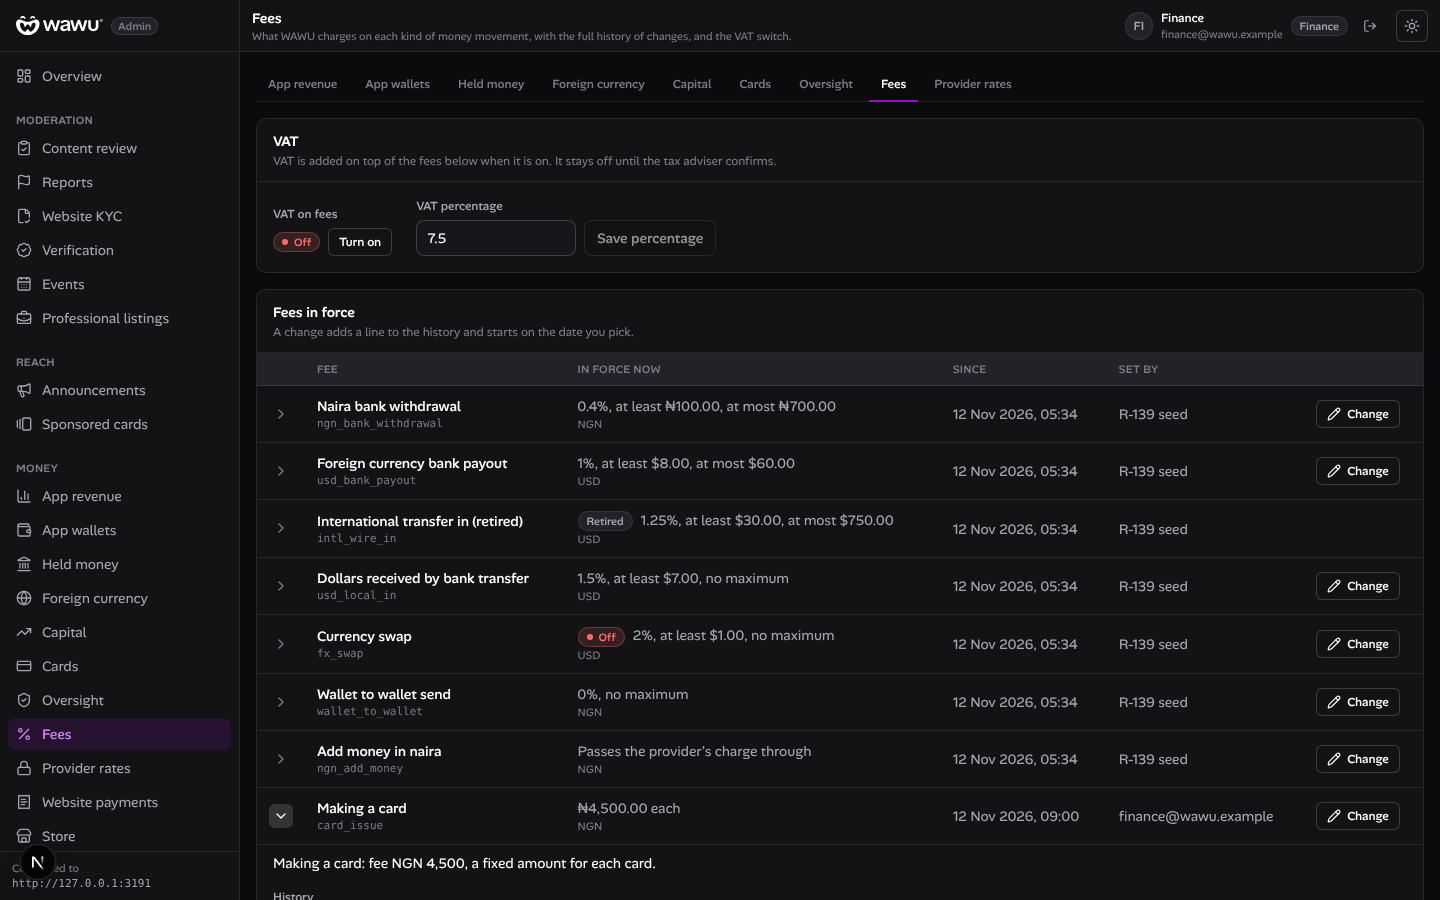
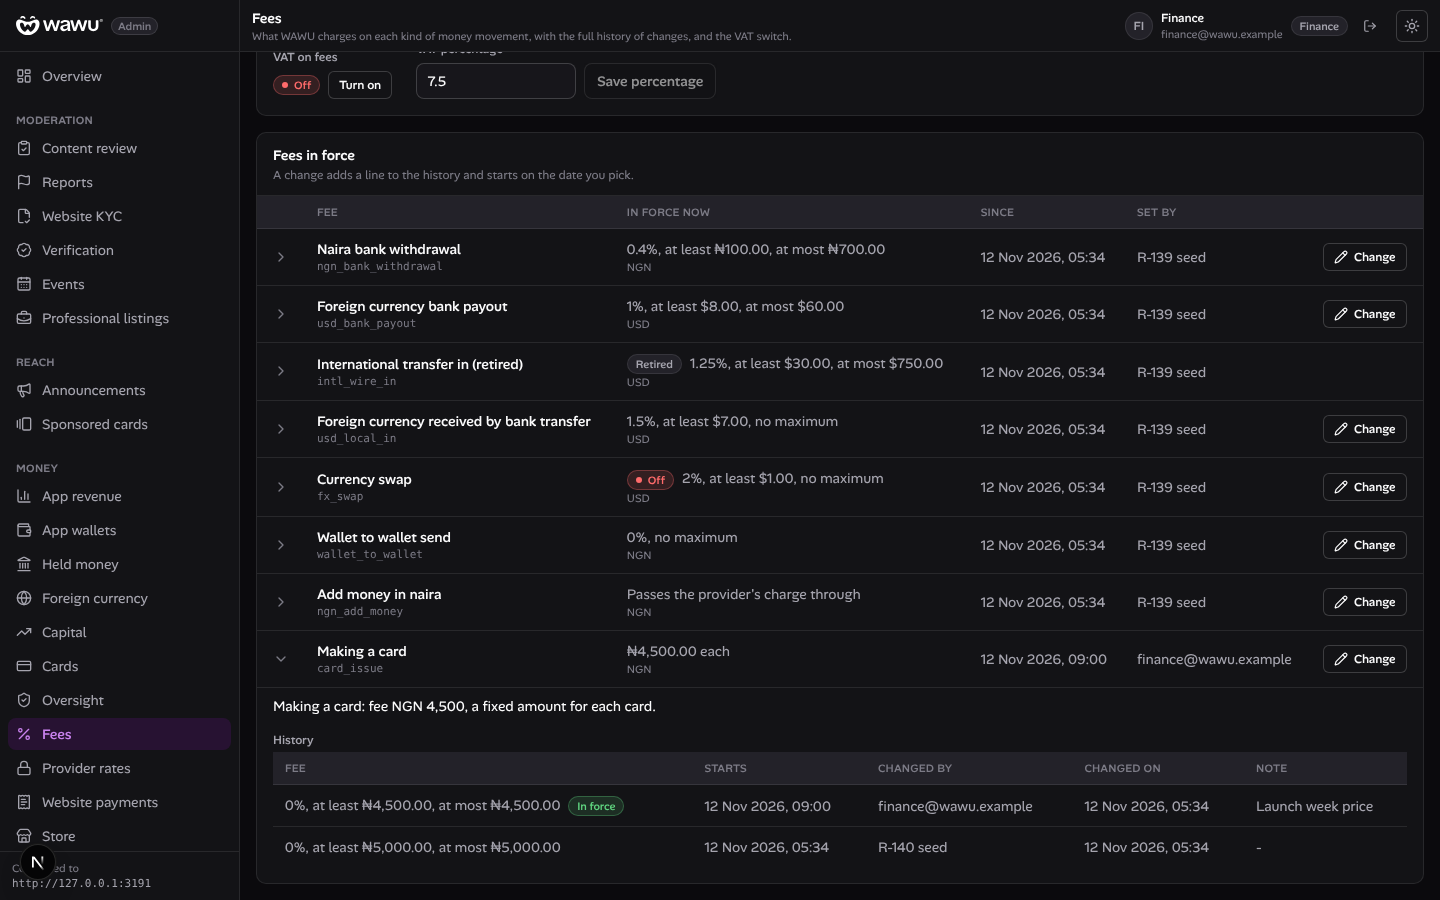
FEE-07: relabel per lead ruling, pictures re-taken, server step owed noted
Claude-Session: https://claude.ai/code/session_01YVWyVbutb6jEWsPXBkYeY9

diff --git a/tasks/history/FEE-07.md b/tasks/history/FEE-07.md
@@ -21,6 +21,10 @@ Fee-engine spec: added the `card_issue` seed row and five new tests; no old asse
 
 Hub: `npx tsc --noEmit` 0 for my files (only the missing `sharp` module in this machine's node_modules, same on main); `npx eslint --fix` on changed files 0, no unrelated edits; `scripts/dev/quiet.sh ... jest src/money/fees src/money/tests src/money/fx src/money/abroad src/nuvion/handlers` 0 (25 suites, 347 tests); `jest src/money/cards` 0 (70 tests); `jest src/protected-routes` 1: 248 pass, 5 fail (`/learn/*`, `/creators/:id/evg`: 404 for seed rows a freshly migrated database lacks, no money route); `python3 scripts/gates/run.py` 0 (0 fail); `check_baseline.py` 0; `npm run contract:build` 0, diff is `card_issue` added to three enums. Migration applied, run twice, rolled back, re-applied, and the rollback refused (exit 3) with an admin-changed row. Jest ran with a stub for `sharp` (not installed here) via `--moduleNameMapper`, and the contract build with a temporary `.d.ts` shim, removed.
 
-Dashboard: typecheck 0, lint 0 (old SHOP_DTO warning), `npm test` 0, `check:contrast` 0, `check:money-contract` 0 with `HUB_API_REF=origin/wmt/FEE-07`, `check:invariants` 1 (the label, above). `check:contract`, `check:ops-contract`, `check:oversight-contract` not run (fail on main).
+Dashboard: typecheck 0, lint 0 (old SHOP_DTO warning), `npm test` 0, `check:contrast` 0, `check:money-contract` 0 with `HUB_API_REF=origin/wmt/FEE-07`, `check:invariants` 1 (the label), then 0 after the lead's ruling relabelled it "Foreign currency received by bank transfer". `check:contract`, `check:ops-contract`, `check:oversight-contract` not run (fail on main).
 
 NOT RUN: the real Hub or Nuvion; a real sign-in; pictures are against a stand-in Hub in scratch, as FEE-02's were. Pictures (`audits/FEE-07/`, 1440x900, light and dark): list, Making a card with history, Dollars received preview, card fee editor, retired wire row.
+
+## Round 1 fix (12 Nov 2026)
+
+Label changed per the lead; the literal "USD received by bank transfer" was tried first and fails the same rule (`\bUSD\b`), so the label avoids both words. Dashboard checks after the change: typecheck 0, lint 0, `npm test` 0, `check:contrast` 0, `check:money-contract` 0 (with `HUB_API_REF=origin/wmt/FEE-07`), `check:invariants` 0. All ten pictures re-taken (the list shows the label in all of them).

diff --git a/tasks/FEE-07.md b/tasks/FEE-07.md
@@ -18,6 +18,8 @@ tier: T2
 
 ## Current state
 
+**SERVER STEP OWED (the lead's):** set `FX_FEE_COLLECTOR_USD_BAN` on the server. The dollar-received fee and dollar payouts need it; without it the fee on a dollar inflow cannot be taken (the handler answers "failed", flagged for review, the credit is already written).
+
 As of 12 Nov 2026.
 - **Status:** todo. Cut by the lead from R-140. The Hub is live on Nuvion since 05:34 UTC (Hub main 5f84a97a, FEE-01 merged; dashboard main 9c4af591, FEE-02 merged).
 - **What exists** (lead's map of Hub main 5f84a97a):
@@ -62,7 +64,7 @@ Built 12 Nov 2026. Hub `wmt/FEE-07` at 13a6a522 (on main 5f84a97a), dashboard `w
 - **Nuvion's charge in the quote.** The Hub's only USD to NGN rate is `StoreUsdRateService` (store module, live quote with a 30 minute cache and a stored fallback). Not reused: it is store-scoped and a displayed charge that can drift from the charge the balance check and Nuvion apply would be unsafe. `NUVION_FEE_CARD_CREATE` stays.
 - **App.** No change needed: the app reads `totalFeeKobo`. One thing seen, not changed: `GET /money/fx` still returns `localUsdIn` from the old setting (default false).
 - **Dashboard.** Labels, fixed-fee editor, retired kind with no Change button. Pictures in `audits/FEE-07/`.
-- **Needs the lead:** `FX_FEE_COLLECTOR_USD_BAN` must be set on the server or a dollar inflow's fee cannot be taken (the handler answers "failed", flagged for review, the credit is already written). Dashboard `check:invariants` fails on one line: the naira-only rule bans the word "dollars" and the task's required label "Dollars received by bank transfer" is in `feeText.ts:9`. A gate was not edited; the lead rules (an allow for that line).
+- **Label (lead ruling, 12 Nov).** The naira-only invariant bans both "dollar" and "USD" in copy, so "USD received by bank transfer" also fails. The label is "Foreign currency received by bank transfer" (matches "Foreign currency bank payout"); `check:invariants` exits 0. No gate edited. Pictures re-taken.
 
 ## Verifier report
 
